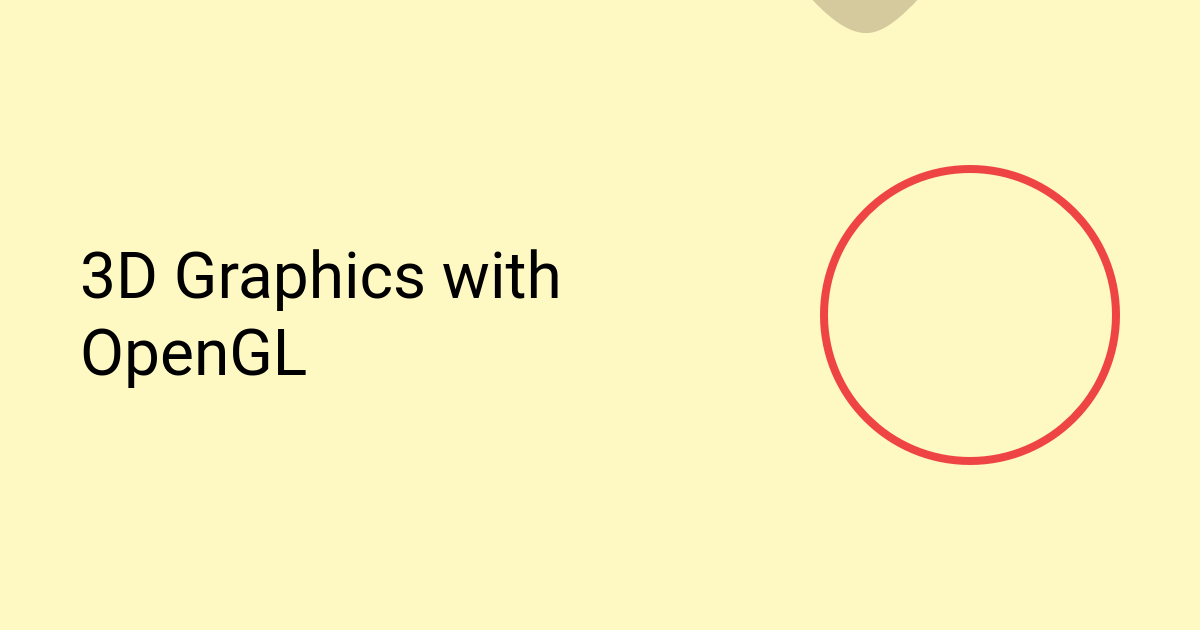
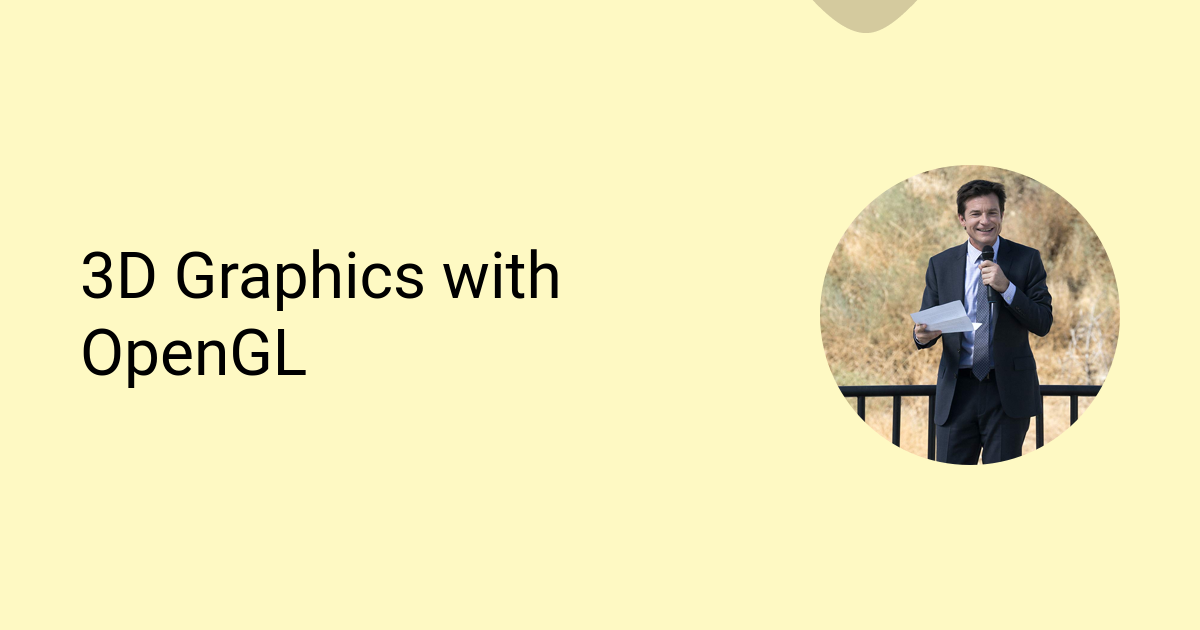
fix preset

Changed region(s): [[0.6783, 0.2413, 0.9558, 0.754]]

diff --git a/src/presets/podcast.tsx b/src/presets/podcast.tsx
@@ -1,17 +1,20 @@
 import type { RenderFunctionInput } from "../types.js";
 const { twj } = await import("tw-to-css");
+import { fetchImage } from "../util.js";
 
 // from https://fullstackheroes.com/resources/vercel-og-templates/podcast/
 export async function podcast({ title }: RenderFunctionInput): Promise<React.ReactNode> {
-  const image = "https://static.wikia.nocookie.net/arresteddevelopment/images/4/42/5x15_-_Michael_Bluth_01.jpg";
+  const image = await fetchImage(
+    "https://static.wikia.nocookie.net/arresteddevelopment/images/4/42/5x15_-_Michael_Bluth_01.jpg",
+  );
 
   return Promise.resolve(
-    <div style={twj("h-full w-full flex items-start justify-start bg-yellow-100 p-20")}> 
-      <div style={twj("flex h-full items-center w-full")}> 
-        <div style={twj("flex-1 flex flex-col mr-20")}> 
+    <div style={twj("h-full w-full flex items-start justify-start bg-yellow-100 p-20")}>
+      <div style={twj("flex h-full items-center w-full")}>
+        <div style={twj("flex-1 flex flex-col mr-20")}>
           <h1 style={twj("text-[60px] m-0")}>{title}</h1>
         </div>
-        <div style={twj("flex relative")}> 
+        <div style={twj("flex relative")}>
           <svg
             style={twj("absolute -top-[300px] -left-[100px] opacity-20")}
             id="visual"
@@ -27,7 +30,7 @@ export async function podcast({ title }: RenderFunctionInput): Promise<React.Rea
               ></path>
             </g>
           </svg>
-          <img style={{ ...twj("mx-auto border-8 border-red-500 w-[300px] h-[300px] rounded-full"), ...{ objectFit: "cover" } }} src={image} />
+          <img style={{ ...twj("mx-auto w-[300px] h-[300px] rounded-full"), ...{ objectFit: "cover" } }} src={image} />
         </div>
       </div>
     </div>,

diff --git a/src/hook.ts b/src/hook.ts
@@ -19,7 +19,6 @@ export async function buildDoneHook({
   options: IntegrationOptions;
   render: RenderFunction;
 }) {
-
   logger.info("Generating Open Graph images using Takumi");
 
   const renderer = new Renderer({
@@ -40,7 +39,6 @@ interface HandlePageInput {
 }
 
 async function handlePage({ page, options, render, dir, logger, renderer }: HandlePageInput) {
-
   // gets the absolute path to the HTML file. E.g. /home/user/project/dist/blog/index.html
   // fileURLToPath() converts the URL to a file path. Without it, the path would start with a leading slash on Windows
   // systems, resulting in an invalid path.
@@ -55,13 +53,13 @@ async function handlePage({ page, options, render, dir, logger, renderer }: Hand
 
   // render the image using Satori and Resvg
   const reactNode = await render({ ...page, ...pageDetails, dir, document });
-  const node  = await fromJsx(reactNode);
+  const node = await fromJsx(reactNode);
   const png = await renderer.renderAsync(node, {
     width: 1200,
     height: 630,
-   format: "png",
-   quality: 100,
- });;
+    format: "png",
+    quality: 100,
+  });
 
   // save the image as a PNG file. The file name is the same as the HTML file, but with a .png extension.
   const pngFile = htmlFile.replace(/\.html$/, ".png");

diff --git a/src/presets/backgroundImage.tsx b/src/presets/backgroundImage.tsx
@@ -7,11 +7,11 @@ export async function backgroundImage({ title }: RenderFunctionInput): Promise<R
 
   return Promise.resolve(
     <div style={twj("h-full w-full flex items-start justify-start bg-white relative")}>
-      <div style={twj("flex items-start justify-start h-full w-full")}> 
+      <div style={twj("flex items-start justify-start h-full w-full")}>
         <img style={{ ...twj("absolute inset-0 w-full h-full"), ...{ objectFit: "cover" } }} src={image} />
         {/* Avoid bg-opacity utility; use rgba overlay for compatibility */}
         <div style={{ ...twj("absolute inset-0"), ...{ backgroundColor: "rgba(0,0,0,0.6)" } }}></div>
-        <div style={twj("flex items-center justify-center w-full h-full relative")}> 
+        <div style={twj("flex items-center justify-center w-full h-full relative")}>
           <div style={twj("text-[80px] text-white font-black text-center mx-20")}>{title}</div>
         </div>
       </div>

diff --git a/src/presets/rauchg.tsx b/src/presets/rauchg.tsx
@@ -11,7 +11,7 @@ export async function rauchg({ title }: RenderFunctionInput): Promise<React.Reac
         justifyContent: "center",
         letterSpacing: "-.02em",
         fontWeight: 700,
-        background: "white",
+        backgroundColor: "white",
       }}
     >
       <div
@@ -27,7 +27,7 @@ export async function rauchg({ title }: RenderFunctionInput): Promise<React.Reac
           style={{
             width: 24,
             height: 24,
-            background: "black",
+            backgroundColor: "black",
           }}
         />
         <span

diff --git a/src/util.ts b/src/util.ts
@@ -45,3 +45,16 @@ export function getImagePath({ url, site }: { url: URL; site: URL | undefined })
 
   return target;
 }
+
+async function createObjectURL(blob: Blob) {
+  return `data:${blob.type};base64,${btoa(
+    (await blob.bytes()).reduce((data, byte) => data + String.fromCharCode(byte), ""),
+  )}`;
+}
+
+export async function fetchImage(url: string): Promise<string> {
+  const response = await fetch(url);
+  const blob = await response.blob();
+
+  return createObjectURL(blob);
+}

diff --git a/src/presets/renderExamples.ts b/src/presets/renderExamples.ts
@@ -36,7 +36,7 @@ async function renderExamples() {
   const promises = Object.entries(presets).map(async ([name, preset]) => {
     const reactNode = await preset(page);
     const node = await fromJsx(reactNode);
-    const png = await renderer.render(node, {
+    const png = await renderer.renderAsync(node, {
       width: 1200,
       height: 630,
       format: "png",
